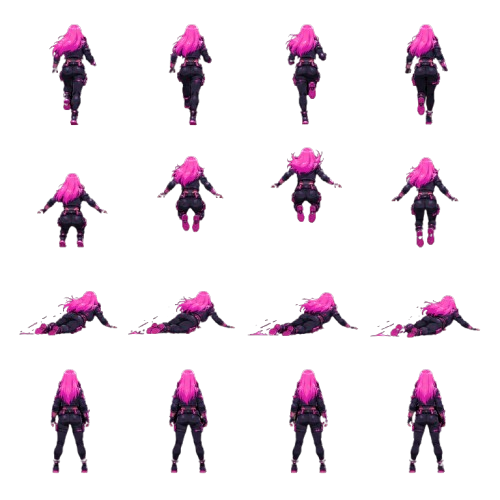
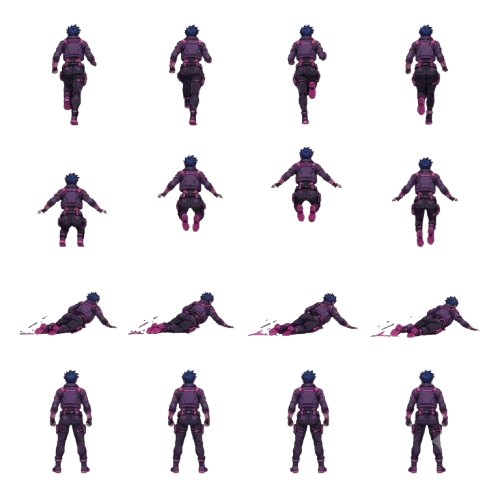
Adjust player movement interpolation and cooldown durations for improved responsiveness

diff --git a/lib/game_screen.dart b/lib/game_screen.dart
@@ -18,7 +18,7 @@ class GameScreen extends StatefulWidget {
 
 class _GameScreenState extends State<GameScreen> {
   DateTime? _lastProcessedFrameTime;
-final Duration _throttleDuration = const Duration(milliseconds: 200);
+final Duration _throttleDuration = const Duration(milliseconds: 80);
   late HandsprintGame game;
   bool isReady = false;
   late PoseDetectorService poseDetectorService;
@@ -33,7 +33,6 @@ final Duration _throttleDuration = const Duration(milliseconds: 200);
     super.initState();
     game = HandsprintGame();
     game.onReset = () {
-      // Delay calibration by 1 second to give the player time to get in position
       Future.delayed(const Duration(milliseconds: 1000), () {
         poseDetectorService.triggerCalibration();
       });
@@ -147,7 +146,7 @@ final Duration _throttleDuration = const Duration(milliseconds: 200);
     return Scaffold(
       body: Stack(
         children: [
-          // 1. The Flame Game Widget
+
           GameWidget(
             game: game,
             overlayBuilderMap: {
@@ -155,7 +154,6 @@ final Duration _throttleDuration = const Duration(milliseconds: 200);
             },
           ),
 
-          // 2. Floating Circular Camera Preview Overlay (Top-Right)
           Positioned(
             top: 40,
             right: 20,

diff --git a/lib/game_componants/player_component.dart b/lib/game_componants/player_component.dart
@@ -115,7 +115,8 @@ add(CircleHitbox(radius: size.x * 0.4, anchor: Anchor.center, position: size / 2
     super.update(dt);
 
     targetX = gameLane.getXForLane(currentLane);
-    position.x += (targetX - position.x) * moveSpeed * dt;
+    final double lerpFactor = (moveSpeed * dt).clamp(0.0, 1.0);
+    position.x += (targetX - position.x) * lerpFactor;
 
     
     if (current == PlayerState.jumping) {

diff --git a/lib/services/pose_detector_service.dart b/lib/services/pose_detector_service.dart
@@ -29,7 +29,7 @@ class PoseDetectorService {
 
   HandState _currentHandState = HandState.center;
   DateTime? _lastVerticalActionTime;
-  final Duration _verticalCooldown = const Duration(milliseconds: 250);
+  final Duration _verticalCooldown = const Duration(milliseconds: 200);
 
 
   void triggerCalibration() {